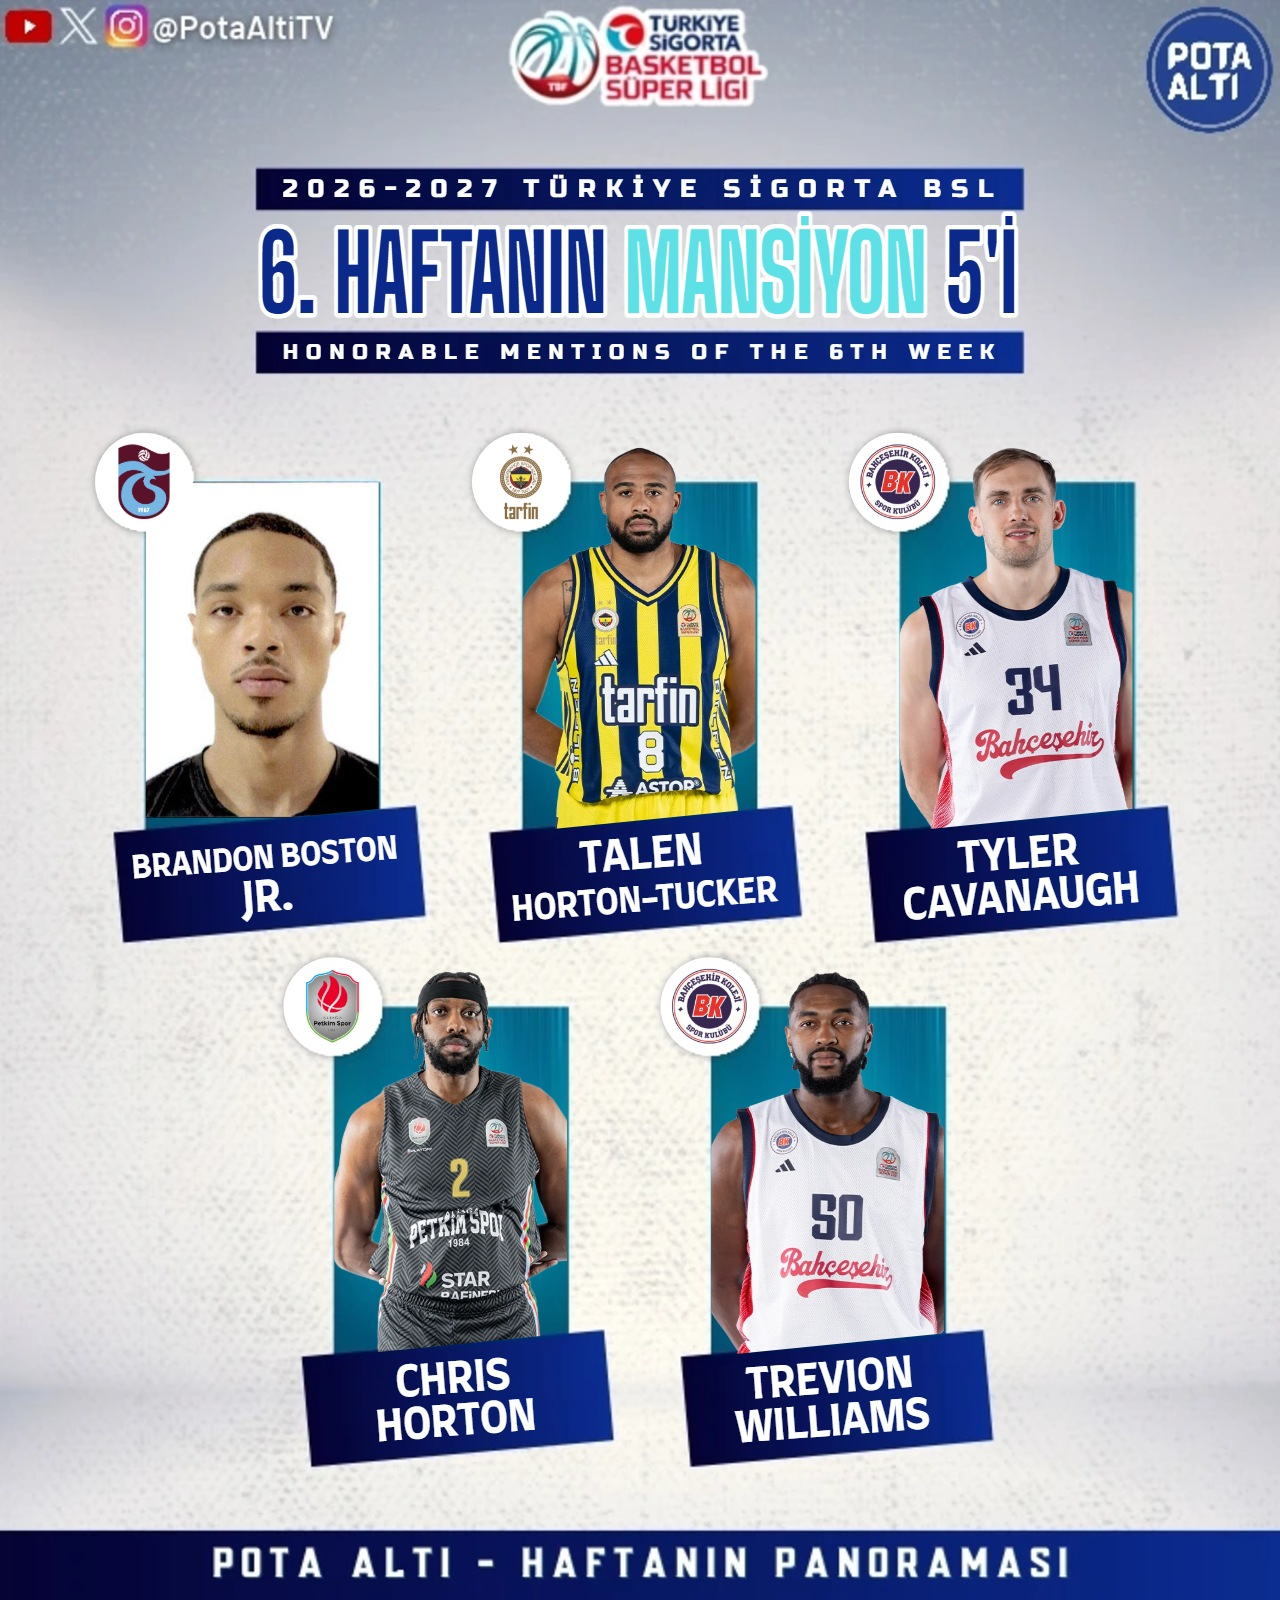
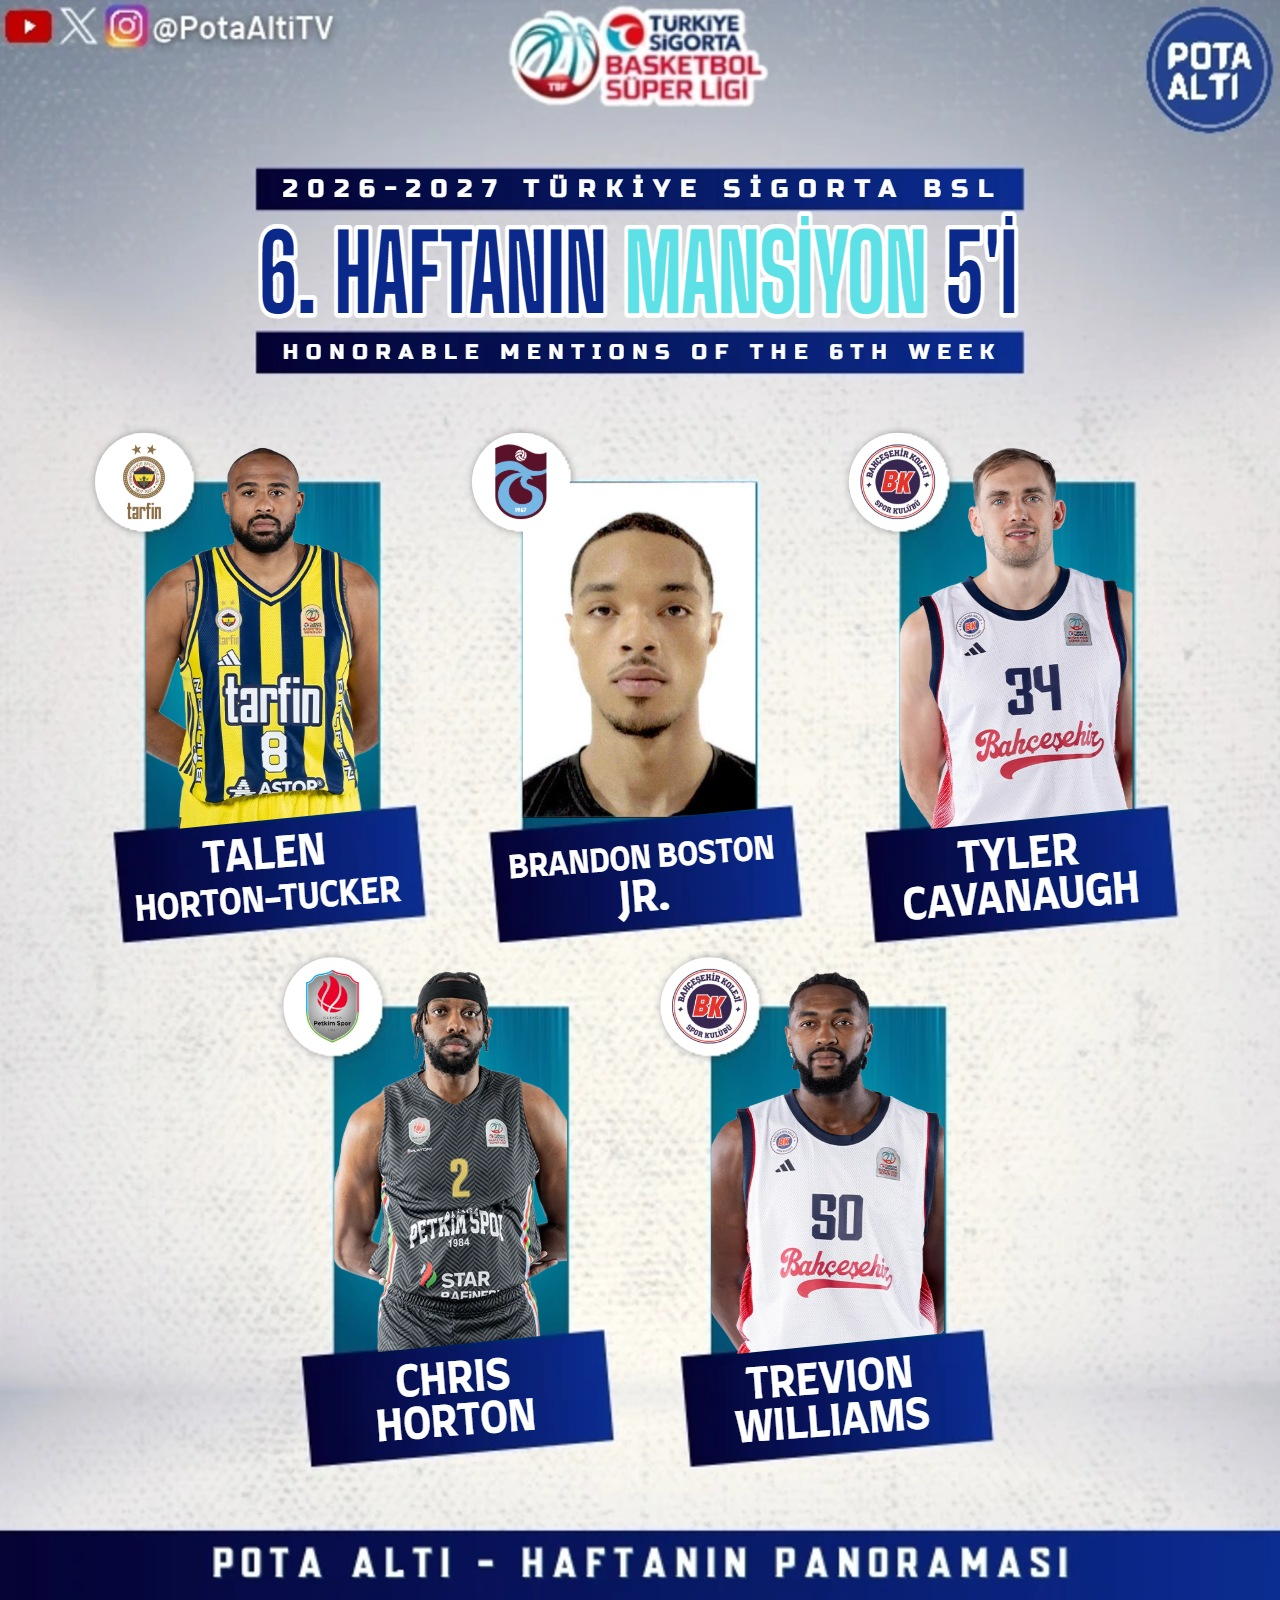
BSL 5'leri gerçek beşteki gibi dizilir: üstte Arkalar (asist ortalamasına göre 1-2-3), altta Önler (ribaunda göre 4-5)

Changed region(s): [[0.0938, 0.2812, 0.3125, 0.5938], [0.375, 0.2812, 0.625, 0.5938]]

diff --git a/site/app.js b/site/app.js
@@ -525,6 +525,7 @@ async function odulHaftasi(h) {
       // Ön/Arka (BSL): yöneticinin mevki listesi (BSL Fantezi'deki), listede yoksa istatistik tahmini
       const e = oy.get(o.id) ?? { id: o.id, ad: r?.ad ?? o.ad, kutuAd: o.ad, takim: T.ad, kazandi, rehberde: !!r,
         yerli: typeof r?.turk === 'boolean' ? r.turk : ['TÜRKİYE', 'KKTC'].includes(r?.ulke), mevki: mevkiler[o.id] ?? r?.mevkiTahmini ?? null,
+        astOrt: r?.astOrt ?? 0, ribOrt: r?.ribOrt ?? 0,
         sayi: 0, rib: 0, ast: 0, tc: 0, blk: 0, tk: 0, vp: 0, iki: [0, 0], uc: [0, 0], sa: [0, 0] };
       for (const a of ['sayi', 'rib', 'ast', 'tc', 'blk', 'tk', 'vp']) e[a] += Number(o[a]) || 0;
       for (const a of ['iki', 'uc', 'sa']) e[a] = [e[a][0] + (o[a]?.[0] ?? 0), e[a][1] + (o[a]?.[1] ?? 0)];
@@ -545,7 +546,8 @@ async function odulHaftasi(h) {
 //   en iyi yerli / yabancı (bir oyuncu tek bir tekli ödül alır; tekli ödül alan 5'lere de girebilir)
 //   Altın, Gümüş, Bronz 5: kalanlardan en iyi 3 Arka + 2 Ön · Mansiyon 5: kalanlardan en iyi 5, hepsi aynı mevkiden olamaz
 //   Bir 5'te aynı takımdan en fazla 2 oyuncu (sıradaki takımı dolmamış oyuncu girer)
-//   Görselde üst sıradaki 3 kart Arka, alttaki 2 kart Ön oyunculardır (Mansiyon'da da önce Arkalar, sonra Önler; her biri VP sırasıyla)
+//   Görselde gerçek beşteki gibi dizilir: üst sırada Arkalar (1-2-3 numara: sezon asist ortalaması yüksekten düşüğe),
+//   alt sırada Önler (4-5 numara: sezon ribaund ortalaması düşükten yükseğe); Mansiyon'da da önce Arkalar, sonra Önler
 function bslListesi(oyuncular) {
   const sira = [...oyuncular].sort((a, b) => b.vp - a.vp || b.sayi - a.sayi);
   const notlar = [], verilen = new Set(), satirlar = [];
@@ -559,7 +561,8 @@ function bslListesi(oyuncular) {
   const kalan = sira.filter(o => o.vp > 0);
   const al = o => kalan.splice(kalan.indexOf(o), 1)[0];
   const mevkisi = o => o.mevki ?? 'arka';
-  const dizilis = g => [...g.filter(o => mevkisi(o) === 'arka'), ...g.filter(o => mevkisi(o) !== 'arka')];
+  const dizilis = g => [...g.filter(o => mevkisi(o) === 'arka').sort((a, b) => b.astOrt - a.astOrt),
+    ...g.filter(o => mevkisi(o) !== 'arka').sort((a, b) => a.ribOrt - b.ribOrt)];
   const takimDolu = (secilen, o) => secilen.filter(x => x.takim === o.takim).length >= 2;
   const gruplar = [];
   for (let i = 0; i < 3; i++) {
